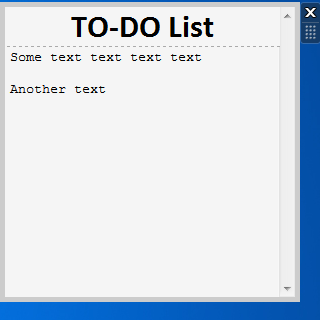
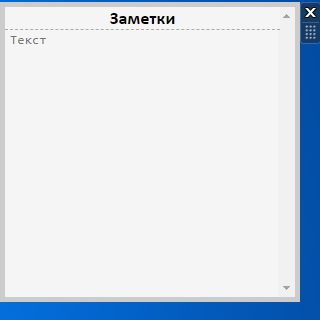
Обновление заголовков и мелкие правки внешнего вида.

diff --git a/index.html b/index.html
@@ -2,14 +2,16 @@
 <html lang="ru">
 <head>
 	<meta charset="UTF-8">
-	<title>TO-DO Notes</title>
+	<title>Заметки</title>
 	<link rel="stylesheet" href="style.css">
 </head>
-<body onload="init();">
-	<h1 id="header">TO-DO Notes</h1>
-	<textarea id="text_input" name="text" cols="30" rows="10" placeholder="Текст"></textarea>
+<body>
+	<h1 id="header">Заметки</h1>
+	<textarea id="text_input" name="text" cols="30" rows="10" maxlength="1000" placeholder="Текст"></textarea>
 
 	<script type="text/javascript">
+		window.onload = init;
+		
 		function init() {
 			var msg = 'Browser mode.';
 			var textarea = document.getElementById('text_input');

diff --git a/style.css b/style.css
@@ -15,6 +15,7 @@ h1 {
 
 	margin: 0;
 
+	font-size: 18px;
 	text-align: center;
 	background: #f5f5f5;
 	border-bottom: 1px dashed #aaa;
@@ -24,8 +25,8 @@ textarea {
 	top: 0;
 	display: block;
 	width: 280px;
-	height: 243px;
-	padding: 42px 5px 5px;
+	height: 260px;
+	padding: 25px 5px 5px;
 	background: #f5f5f5;
 	overflow-y: scroll;
 	border: 5px solid #ccc;

diff --git a/Readme.MD b/Readme.MD
@@ -1,11 +1,13 @@
-# Windows 7 Sidebar Gadget
+# Заметки
 
-Simple to-do list.
+Windows 7 Sidebar Gadget.
 
 ![solarized dualmode](https://github.com/AndreyZu/todo/raw/master/screen.png)
 
-Add gadget.xml, index.html, style.css to ZIP and change type to .gadget
+Добавить gadget.xml, index.html, style.css в ZIP-архив и поменять расширение на .gadget
 
-###### Files path and settings after installation:
+**Путь к файлам после установки:**
 
-C:\Users\UserName\AppData\Local\Microsoft\Windows Sidebar
+```
+C:\Users\<UserName>\AppData\Local\Microsoft\Windows Sidebar
+```
